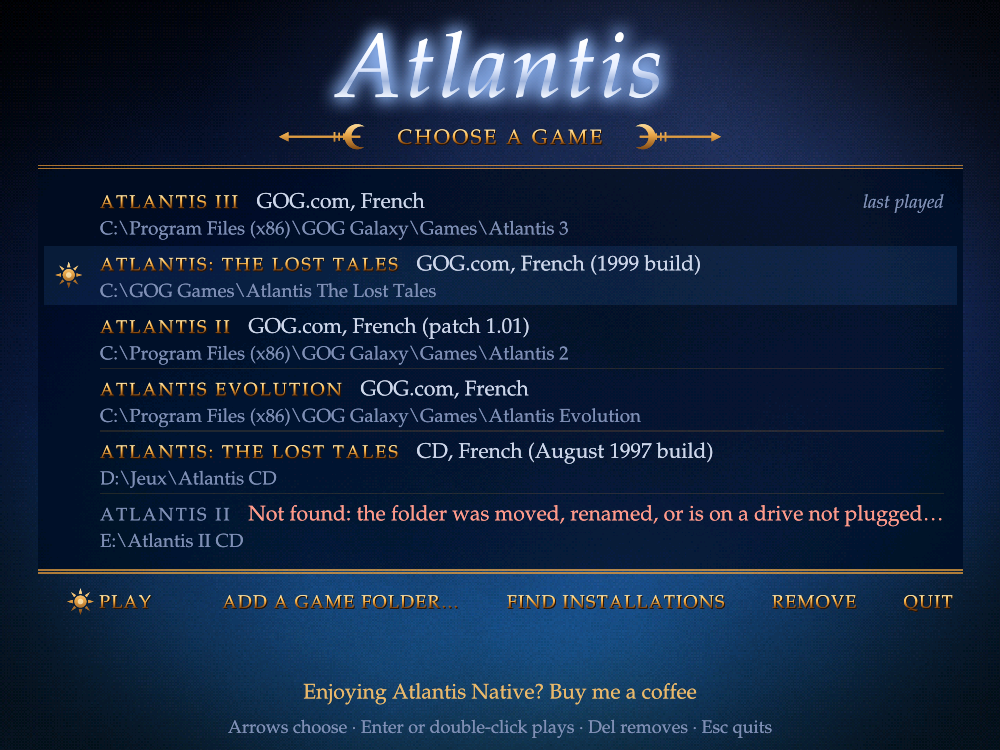
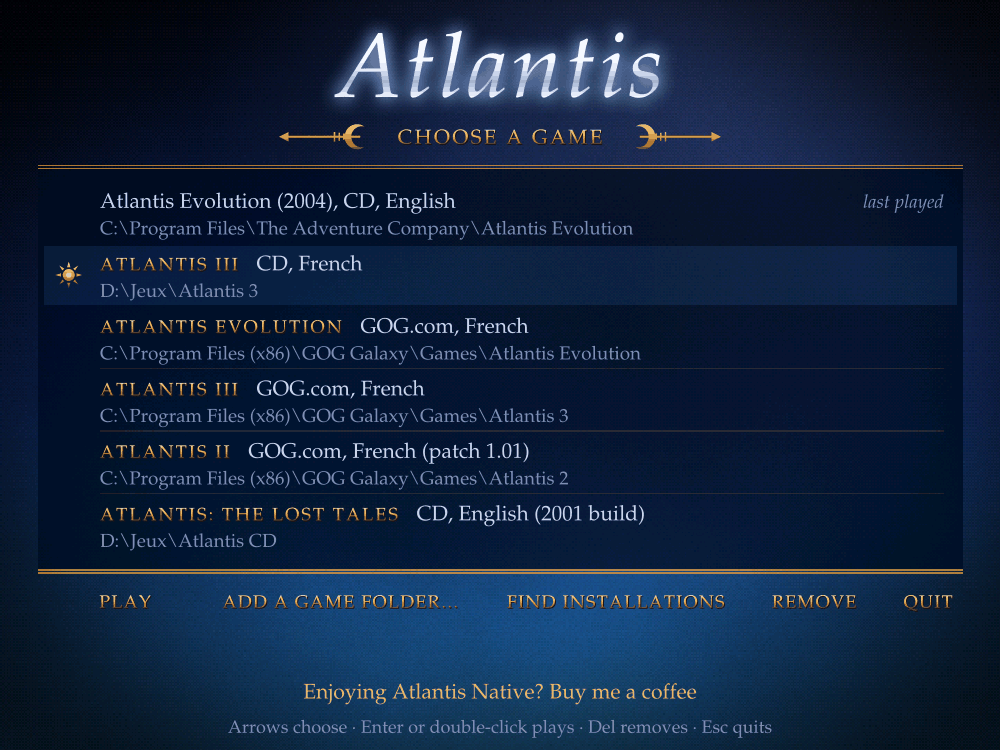
Docs: the public pages brought up to 0.8.0, with new screenshots
README: Atlantis III's two editions (GOG.com and the French retail CD,
32 bits by default), Atlantis Evolution's 2004 CD as a preview, the web
version reading CD images (ISO, BIN, IMG, MDF, NRG) and the browsers it
was tried in; the "new in 0.6.0 / 0.7.0" phrasing dropped. A compact
gallery with four new screenshots (Atlantis III's French CD, Atlantis
Evolution on GOG.com and on the 2004 CD, the web version in Edge
playing Atlantis III's CD from its ISO images) and the game library
regenerated with the current editions.

Chinese READMEs: the four games, Atlantis III's and Atlantis
Evolution's editions, the web version's browsers and CD images.

Web page: the Polish CD of Atlantis II, Atlantis III's disc marker
files, the 2004 CD as a preview, the browsers tried.

Guide: Atlantis Evolution's 2004 CD in the supported editions, and
GOG.com's Atlantis Evolution in the web version's "what to pick".

Claude-Session: https://claude.ai/code/session_01VGrHFwNfM3puZfkMd6RjoY

diff --git a/web/index.html b/web/index.html
@@ -326,7 +326,7 @@
     <ul>
       <li><em>GOG.com</em>: the folder where the game is installed (the
           one holding <code>Game.exe</code> and <code>DATAS_A2</code>).</li>
-      <li><em>CD</em> (French, also with patch 1.01, or North American): the folder where the
+      <li><em>CD</em> (French, also with patch 1.01, North American or Polish): the folder where the
           game is installed (the one holding <code>atlantis2.exe</code>,
           <code>wam</code> and <code>scenar</code>), with the images of the
           four CDs (<code>.iso</code>, <code>.bin</code>, <code>.mdf</code>,
@@ -352,7 +352,7 @@
           holding both the installed game and the images. Copies of the CDs
           do too, for example folders <code>CD1</code> to <code>CD3</code>,
           each holding the disc's <code>Datas</code> folder and its
-          <code>Atlantis3.cd</code> file. Other editions are untested.</li>
+          <code>Atlantis3.cd1</code> (<code>cd2</code>, <code>cd3</code>) file. Other editions are untested.</li>
     </ul>
     </section>
     <section>
@@ -364,8 +364,8 @@
           language is the installation's; <code>?lang=fr</code> (or
           <code>de</code>, <code>en</code>, <code>es</code>, <code>it</code>)
           after the page's address chooses another.</li>
-      <li><em>The 2004 CD</em> (The Adventure Company, English; in
-          progress): the folder where its installer put the game (the one
+      <li><em>The 2004 CD</em> (The Adventure Company, English; a
+          preview, not yet played through to the end): the folder where its installer put the game (the one
           holding <code>Atlantis Evolution.exe</code> and <code>cd0</code>
           to <code>cd4</code>). The CDs themselves hold only the
           installer's archives.</li>
@@ -385,7 +385,8 @@
        them, a part at a time when the game needs it, and the players and
        saves are kept in this browser.
        <a href="https://github.com/ripleyXLR8/atlantis-native/blob/main/docs/GUIDE.md#getting-the-game-files" target="_blank" rel="noopener">How to get the game files</a>.
-       Best with a mouse and a keyboard; F10 (or O) opens the options, F11 (or F) the full screen.</p>
+       Best with a mouse and a keyboard; F10 (or O) opens the options, F11 (or F) the full screen.
+       Tried in Edge and Firefox (Atlantis II in Chrome too), not yet in Safari.</p>
   </div>
 </main>
 <footer>

diff --git a/README.md b/README.md
@@ -35,28 +35,28 @@ end too, on Windows, macOS, Linux and in the browser: Tibet, Ireland,
 China, Yucatán and Xibalba, Shamballa and Atlantis, with every puzzle (see
 [Atlantis II](docs/GUIDE.md#atlantis-ii)).
 
-*Atlantis III: The New World* (2001) plays from start to end as well, new
-in 0.6.0, on the desktop and in the browser: from the Hoggar desert
-through the Land of the Dead and the other worlds to the credits, with
-its dialogs, menus, saves and every puzzle. GOG.com's edition is known,
-in English, French, German and Spanish (see
-[Atlantis III](docs/GUIDE.md#atlantis-iii)). It has
-been checked mostly by automated replays against the original's code and
-by the developer's own play, not yet by many players: reports are
-welcome.
+*Atlantis III: The New World* (2001) plays from start to end as well, on
+the desktop and in the browser: from the Hoggar desert through the Land
+of the Dead and the other worlds to the credits, with its dialogs,
+menus, saves and every puzzle. Two editions are known: GOG.com's, in
+English, French, German and Spanish, and the French retail CD (2001,
+three CDs) (see [Atlantis III](docs/GUIDE.md#atlantis-iii)). It has been
+checked mostly by automated replays against the original's code and by
+the developer's own play, not yet by many players: reports are welcome.
 
-*Atlantis Evolution* (2004) is new in 0.7.0 in GOG.com's edition, in its five
-languages, from the splash screens and the main menu through the whole
-story to the end, with its dialogs, inventory, documents, saves and
-puzzles, its videos and sounds decoded as the original decodes them.
-GOG.com does not sell the 2004 program: its edition is a 2012 version of
-the game on the Tetraedge Engine, not on Cryo's engine, so Atlantis Native
-has a new engine for it, drawn by the graphics card with OpenGL (or WebGL 2
-in the browser), or by the processor. It has been checked by automated
-replays of the whole story against the original's scripts and by the
-developer's own play (see [Atlantis Evolution](docs/GUIDE.md#atlantis-evolution)).
+*Atlantis Evolution* (2004) plays from start to end in GOG.com's
+edition, in its five languages, from the splash screens and the main
+menu through the whole story to the end, with its dialogs, inventory,
+documents, saves and puzzles, its videos and sounds decoded as the
+original decodes them. GOG.com does not sell the 2004 program: its
+edition is a 2012 version of the game on the Tetraedge Engine, not on
+Cryo's engine, so Atlantis Native has a new engine for it, drawn by the
+graphics card with OpenGL (or WebGL 2 in the browser), or by the
+processor. It has been checked by automated replays of the whole story
+against the original's scripts and by the developer's own play (see
+[Atlantis Evolution](docs/GUIDE.md#atlantis-evolution)).
 
-**In progress:** the original 2004 CD program of *Atlantis Evolution*
+**Preview:** the original 2004 CD program of *Atlantis Evolution*
 (The Adventure Company's CD, English; Cryo's own engine, grown from
 *Atlantis III*'s), played by the *Atlantis III* engine. It is in the game
 library as *Atlantis Evolution (2004), CD, English*, beside GOG.com's
@@ -64,9 +64,8 @@ edition, on the desktop and in the browser: its logos, start page,
 menus, saves, panoramas, chapter scripts, dialogs, inventory, music,
 Bink films, the ship's pitching and its eight mini-games run, each
 traced to the original's code and checked piece by piece by automated
-tests. It has not yet been played through from start to end: it is
-playable, but still in progress (see
-[The 2004 CD](docs/GUIDE.md#the-2004-cd-in-progress)).
+tests. It has not yet been played through from start to end: reports
+are welcome (see [The 2004 CD](docs/GUIDE.md#the-2004-cd-in-progress)).
 
 It is the original game, **pixel for pixel and sample for sample**: the
 engine is a translation of the Atlantis engine written for
@@ -78,8 +77,8 @@ original's bugs and an optional HD mode.
 ## Screenshots
 
 <p align="center">
-  <img src="docs/screenshots/macos-player-screen.jpg" width="49%" alt="The player screen on macOS, HD mode">
-  <img src="docs/screenshots/dialog-hd.jpg" width="49%" alt="A dialog with its 3D talking head, HD mode">
+  <img src="docs/screenshots/macos-player-screen.jpg" width="49%" alt="Atlantis: The Lost Tales, the player screen on macOS, HD mode">
+  <img src="docs/screenshots/dialog-hd.jpg" width="49%" alt="Atlantis: The Lost Tales, a dialog with its 3D talking head, HD mode">
 </p>
 
 <p align="center">
@@ -87,29 +86,37 @@ original's bugs and an optional HD mode.
 </p>
 
 <p align="center">
-  <img src="docs/screenshots/widescreen.jpg" width="98%" alt="Widescreen: the panorama fills a 16:9 window">
+  <img src="docs/screenshots/widescreen.jpg" width="49%" alt="Widescreen: the panorama fills a 16:9 window">
+  <img src="docs/screenshots/atlantis2-shamballa-widescreen.jpg" width="49%" alt="Atlantis II: Shamballa in the HD mode, widescreen">
 </p>
 
 <p align="center">
-  <img src="docs/screenshots/atlantis2-shamballa-widescreen.jpg" width="98%" alt="Atlantis II: Shamballa in the HD mode, widescreen">
+  <img src="docs/screenshots/atlantis3-hoggar-dialog.jpg" width="49%" alt="Atlantis III, GOG.com: a dialog in the Hoggar, 800 x 600, with its subtitle">
+  <img src="docs/screenshots/atlantis3-cd-fr-hoggar.jpg" width="49%" alt="Atlantis III, French CD: the Hoggar desert, 800 x 600">
 </p>
 
 <p align="center">
-  <img src="docs/screenshots/atlantis3-hoggar-dialog.jpg" width="70%" alt="Atlantis III: a dialog in the Hoggar, 800 x 600, with its subtitle">
+  <img src="docs/screenshots/evolution-gog-rowboat.jpg" width="49%" alt="Atlantis Evolution, GOG.com: at sea in the rowboat, 1280 x 720">
+  <img src="docs/screenshots/web-atlantis3-cd-images-edge.jpg" width="49%" alt="The web version in Edge: Atlantis III's French CD played from its CD images">
 </p>
 
 <p align="center">
-  <img src="docs/screenshots/game-library.png" width="70%" alt="The game library: several editions of the game">
+  <img src="docs/screenshots/evolution-2004-cd-cabin.jpg" width="49%" alt="Atlantis Evolution, the 2004 CD: the cabin of the first scene, 1024 x 768">
+  <img src="docs/screenshots/game-library.png" width="49%" alt="The game library: editions of the four games, among them Atlantis III's French CD and Atlantis Evolution's 2004 CD">
 </p>
 
-<sub>From top to bottom: the player screen (macOS, HD mode); a dialog with
-its 3D talking head drawn at the window's resolution; the same view in
-the original's 640x480 and in the HD mode; widescreen; *Atlantis II*'s
-Shamballa in the HD mode, widescreen; a dialog of *Atlantis III* in the
-Hoggar (GOG.com's French edition, 800 x 600); the game library.
-The game's pictures and text are © Microids (Cryo Interactive
-Entertainment), shown here to illustrate the engine; Atlantis Native
-contains none of them.</sub>
+<sub>Left to right, top to bottom: the first game's player screen
+(macOS, HD mode); a dialog with its 3D talking head drawn at the
+window's resolution; the same view in the original's 640x480 and in the
+HD mode; widescreen; *Atlantis II*'s Shamballa in the HD mode,
+widescreen; a dialog of *Atlantis III* in the Hoggar (GOG.com's French
+edition, 800 x 600); the Hoggar on *Atlantis III*'s French CD; *Atlantis
+Evolution*, GOG.com's edition, at sea; the web version in Edge,
+*Atlantis III*'s French CD read from its ISO images; the cabin of the
+first scene on *Atlantis Evolution*'s 2004 CD (a preview); the game
+library. The games' pictures and text are © Microids (the first three:
+Cryo Interactive Entertainment), shown here to illustrate the engine;
+Atlantis Native contains none of them.</sub>
 
 ## Features
 
@@ -139,16 +146,19 @@ contains none of them.</sub>
 - 📚 **Game library**: several editions (GOG.com, CD, DVD, disc
   images...) of the four games in one list, to choose the one to play at
   start-up or switch from F10.
-- 🏜 **Atlantis III** (new in 0.6.0): GOG.com's edition in English,
-  French, German or Spanish, whole,
-  with the original's own menus and options (640 x 480, 800 x 600 or
-  1024 x 768, 16 or 32 bits), its saves kept apart from the game's
-  folder, F12 screenshots; on the desktop and in the browser.
-- 🌊 **Atlantis Evolution** (new in 0.7.0): GOG.com's edition in English, French,
+- 🏜 **Atlantis III**: GOG.com's edition in English, French, German or
+  Spanish and the French retail CD, whole, with the original's own menus
+  and options (640 x 480, 800 x 600 or 1024 x 768, 16 or 32 bits; 32 by
+  default, a bug fix), its saves kept apart from the game's folder, F12
+  screenshots; on the desktop and in the browser.
+- 🌊 **Atlantis Evolution**: GOG.com's edition in English, French,
   German, Italian and Spanish, its interface laid out on any window size
   as the original lays it out, full screen or windowed; on the desktop
   and in the browser. Its original 2004 CD program is in the game library
-  too, in progress.
+  too, as a preview.
+- 🌐 **In the browser**: the four games, read from your own folder; the
+  CD editions of the first three also from their disc images (`.iso`,
+  `.bin`, `.img`, `.mdf`, `.nrg`), a part at a time.
 - 🪟 **A modern window**: resizable, the picture kept in its 4:3
   proportions, the mouse captured while you look around; full screen at
   a key, and on the desktop kept for the next start (F10, "Start in full
@@ -173,11 +183,15 @@ those of the latest commit:
 | Web (a static site to serve over HTTP; on the nightly release) | `atlantis-native-web.zip` |
 
 The web version of the latest commit is also online:
-**https://ripleyxlr8.github.io/atlantis-native/** (Chrome, Edge, Firefox
-or Safari), for the four games (tried in Edge and Firefox, Atlantis II
-in Chrome too; not yet in Safari). Pick
-your game folder there: its files are read inside your browser and never
-sent anywhere; the saves stay in that browser.
+**https://ripleyxlr8.github.io/atlantis-native/**, for the four games
+(tried in Edge, a Chromium browser, and in Firefox, Atlantis II in
+Chrome too; not yet in Safari). Pick your game folder there: its files
+are read inside your browser, a part at a time (the CD images too, and
+Atlantis II's and III's cinematics), and never sent anywhere; the saves
+stay in that browser. For the CD editions of Atlantis I, II and III, the
+folder may hold the CD images (`.iso`, `.bin`, `.img`, `.mdf`, `.nrg`)
+in place of copies of the discs (see [The web
+version](docs/GUIDE.md#the-web-version)).
 
 > **Windows:** the program is not code-signed (a certificate costs money
 > each year), so Windows SmartScreen may warn that it "protected your PC"
@@ -304,7 +318,7 @@ For *Atlantis Evolution*:
 | Release | Languages | What to point it at |
 |---|---|---|
 | [GOG.com](https://www.gog.com/) (`Atlantis Evolution.exe` of 2,363,910 bytes, MD5 `f2de382af52f1d89e32ed7c286be8b4f`; one program for all five languages) | English, French, German, Italian, Spanish (the one GOG.com's client installed, or another chosen in `settings.ini`) | the installation folder (the one holding `Atlantis Evolution.exe` and `3D`) |
-| The 2004 CD of The Adventure Company, four discs (`Atlantis Evolution.exe` of 3,022,848 bytes, MD5 `2199bc93d2ac3f8b4279e0db898559e8`; **in progress**) | English | the folder where its installer put the game (the one holding `Atlantis Evolution.exe` and `cd0` to `cd4`; by default `C:\Program Files\The Adventure Company\Atlantis Evolution`) |
+| The 2004 CD of The Adventure Company, four discs (`Atlantis Evolution.exe` of 3,022,848 bytes, MD5 `2199bc93d2ac3f8b4279e0db898559e8`; **a preview**, not yet played through from start to end) | English | the folder where its installer put the game (the one holding `Atlantis Evolution.exe` and `cd0` to `cd4`; by default `C:\Program Files\The Adventure Company\Atlantis Evolution`) |
 
 GOG.com's edition is a 2012 program (Tetraedge Engine); the CD's is the
 original 2004 program, played by the *Atlantis III* engine. The CDs
@@ -354,7 +368,7 @@ given on the command line. See
 [Atlantis III](docs/GUIDE.md#atlantis-iii).
 
 *Atlantis Evolution* (2004) as well: GOG.com's installation folder, or
-the folder the 2004 CD's installer filled (in progress), found by the
+the folder the 2004 CD's installer filled (a preview), found by the
 game library or given on the command line. See
 [Atlantis Evolution](docs/GUIDE.md#atlantis-evolution).
 

diff --git a/docs/GUIDE.md b/docs/GUIDE.md
@@ -108,7 +108,8 @@ the Polish CD (1999), the GOG.com edition and the Italian *Atlantis Collection* 
 [Atlantis II](#atlantis-ii)). For Atlantis III: GOG.com's release in
 English, French, German or Spanish, and the French CD (2001, three CDs);
 other editions are unknown and untested (see [Atlantis III](#atlantis-iii)). For Atlantis Evolution:
-GOG.com's release, in English, French, German, Italian and Spanish (see
+GOG.com's release, in English, French, German, Italian and Spanish, and
+the 2004 CD (English, in progress) (see
 [Atlantis Evolution](#atlantis-evolution)).
 Another edition of the first game is
 refused with the size of its `atlantis.exe`, and the message offers to
@@ -308,6 +309,11 @@ What to pick:
   kept in the browser under `atlantis-native/atlantis3/`; its controls
   are the desktop's (see [Atlantis III](#atlantis-iii)): a click takes
   the mouse, Escape lets it go first.
+- *Atlantis Evolution*, GOG.com (English, French, German, Italian or
+  Spanish): the installation folder (the one holding
+  `Atlantis Evolution.exe` and `3D`). The language is the
+  installation's; `?lang=` after the page's address chooses another
+  (`en`, `fr`, `de`, `it`, `es`).
 - *Atlantis Evolution*, the 2004 CD (in progress): the folder its
   installer filled (the one holding `Atlantis Evolution.exe` and `cd0`
   to `cd4`, about 4 GB, read a part at a time). Its saves and
